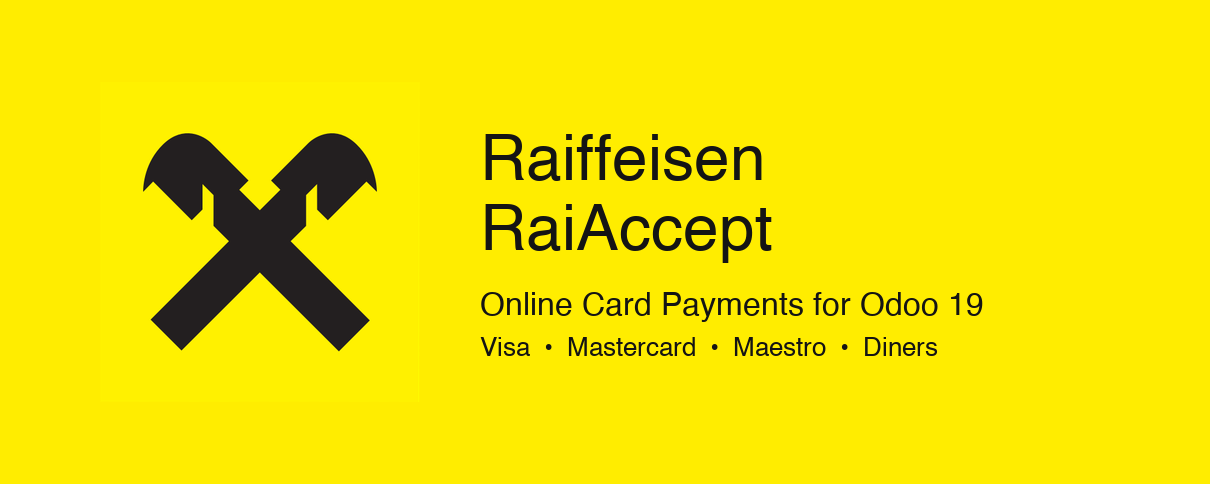
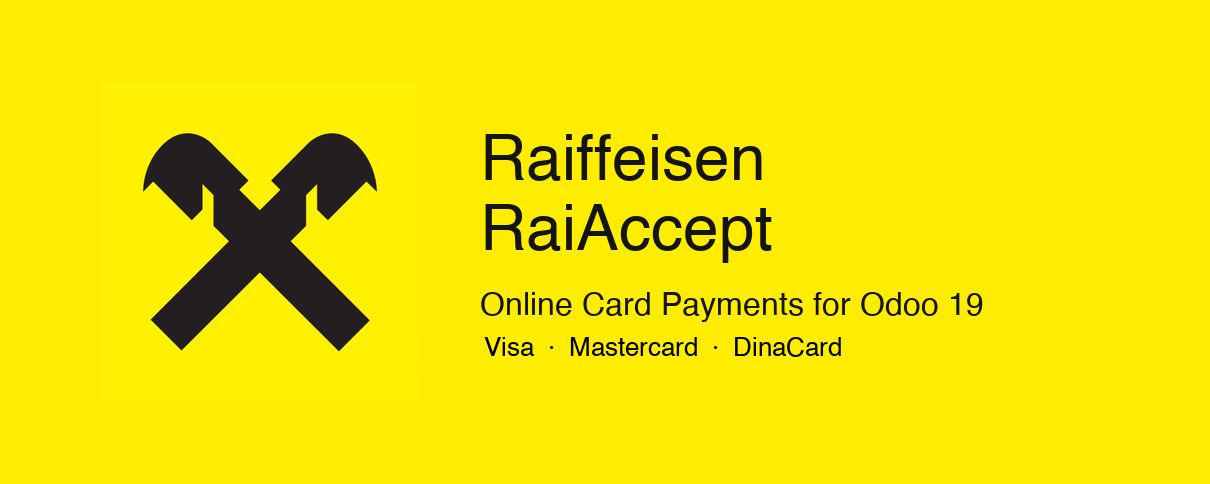
Bump 19.0.1.5.0: fix supported card networks — Visa, Mastercard, DinaCard only
Remove Maestro and Diners from payment_method_ids, banner, and all
descriptions — RaiAccept does not support these networks.
Add Apple Pay / Google Pay as "coming soon" in descriptions.

Changed region(s): [[0.6116, 0.6818, 0.795, 0.7438], [0.3975, 0.6818, 0.581, 0.7438]]

diff --git a/static/description/index.html b/static/description/index.html
@@ -13,7 +13,8 @@
     <h3>Key Features</h3>
     <ul>
       <li>Full integration with <strong>Raiffeisen Bank RaiAccept</strong> payment gateway</li>
-      <li>Supports <strong>Visa, Mastercard, Maestro, Diners, DinaCard</strong> and other card networks</li>
+      <li>Supports <strong>Visa, Mastercard, DinaCard</strong> card payments</li>
+      <li><strong>Apple Pay</strong> and <strong>Google Pay</strong> digital wallets (coming soon)</li>
       <li>Settlement in <strong>RSD</strong> (Serbian Dinar) or <strong>EUR</strong></li>
       <li>Built-in <strong>currency conversion</strong> with configurable exchange rate</li>
       <li><strong>Partial &amp; full refunds</strong> directly from Odoo backend</li>
@@ -48,8 +49,10 @@
   </div>
 
   <div class="oe_row oe_spaced">
-    <h3>Customer Payment</h3>
-    <p>Customers from <strong>any country worldwide</strong> can pay using <strong>Visa, Mastercard, Maestro, Diners, DinaCard</strong> and other card networks supported by RaiAccept. The billing address module covers 50+ countries out of the box.</p>
+    <h3>Supported Payment Methods</h3>
+    <p><strong>Cards:</strong> Visa, Mastercard, DinaCard</p>
+    <p><strong>Digital wallets (coming soon):</strong> Apple Pay, Google Pay</p>
+    <p>Customers from <strong>any country worldwide</strong> can pay. The billing address module covers 50+ countries out of the box.</p>
   </div>
 
   <div class="oe_row oe_spaced">

diff --git a/__manifest__.py b/__manifest__.py
@@ -1,6 +1,6 @@
 {
     "name": "Payment Provider: Raiffeisen RaiAccept",
-    "version": "19.0.1.4.0",
+    "version": "19.0.1.5.0",
     "category": "Accounting/Payment Providers",
     "sequence": 370,
     "summary": "Accept online card payments via Raiffeisen Bank RaiAccept gateway (Serbia & SEE).",

diff --git a/README.md b/README.md
@@ -2,7 +2,7 @@
 
 Odoo 19 payment provider module for **Raiffeisen Bank RaiAccept** gateway.
 
-Accept online card payments (Visa, Mastercard, Maestro, Diners) via Raiffeisen Bank's hosted payment page. Designed for merchants in Serbia and Southeast Europe.
+Accept online payments via Raiffeisen Bank's hosted payment page. Supports Visa, Mastercard, and DinaCard, with Apple Pay and Google Pay coming soon. Designed for merchants in Serbia and Southeast Europe.
 
 ## Features
 
@@ -33,7 +33,11 @@ This module works for merchants with a Raiffeisen Bank business account in the f
 | Slovakia | Tatra banka (RBI group) | EUR |
 | Ukraine | Raiffeisen Bank Ukraine | EUR |
 
-**Customer payments**: Customers from any country worldwide can pay using Visa, Mastercard, Maestro, Diners, DinaCard and other card networks. Billing address mapping covers 50+ countries.
+**Supported payment methods**:
+- **Cards**: Visa, Mastercard, DinaCard
+- **Digital wallets** (coming soon): Apple Pay, Google Pay
+
+Customers from any country worldwide can pay. Billing address mapping covers 50+ countries.
 
 ## Documentation
 
@@ -94,14 +98,14 @@ Brand display polish.
 **Fixes**
 
 - Link the provider to both the primary `Card` method **and** each
-  accepted brand (Visa, Mastercard, Maestro, Diners, DinaCard).
+  accepted brand (Visa, Mastercard, DinaCard).
   Linking only the primary hid the brand icons at checkout; linking
   only the brands caused Odoo's `_get_compatible_payment_methods`
   to drop the Card method with "no supported provider available".
   Both are required.
 - Pre-pad the DinaCard PNG onto a transparent 3:2 canvas (318×214)
   so Odoo's Image-field resize produces a 64×43 icon, matching the
-  dimensions of Visa/Mastercard/Maestro/Diners. Previously the
+  dimensions of Visa/Mastercard. Previously the
   DinaCard icon was rendered ~25% shorter than its neighbours and
   the text was unreadable.
 
@@ -112,7 +116,7 @@ Payment brand coverage update.
 **Improvements**
 
 - Declare explicit brand list on the Raiffeisen provider: **Visa,
-  Mastercard, Maestro, Diners, DinaCard**. Previously the provider
+  Mastercard, DinaCard**. Previously the provider
   only linked to the generic `Card` method, so the Odoo brand pills
   on checkout/config views were empty.
 - Ship **DinaCard** (Serbian national card scheme, operated by NBS)
